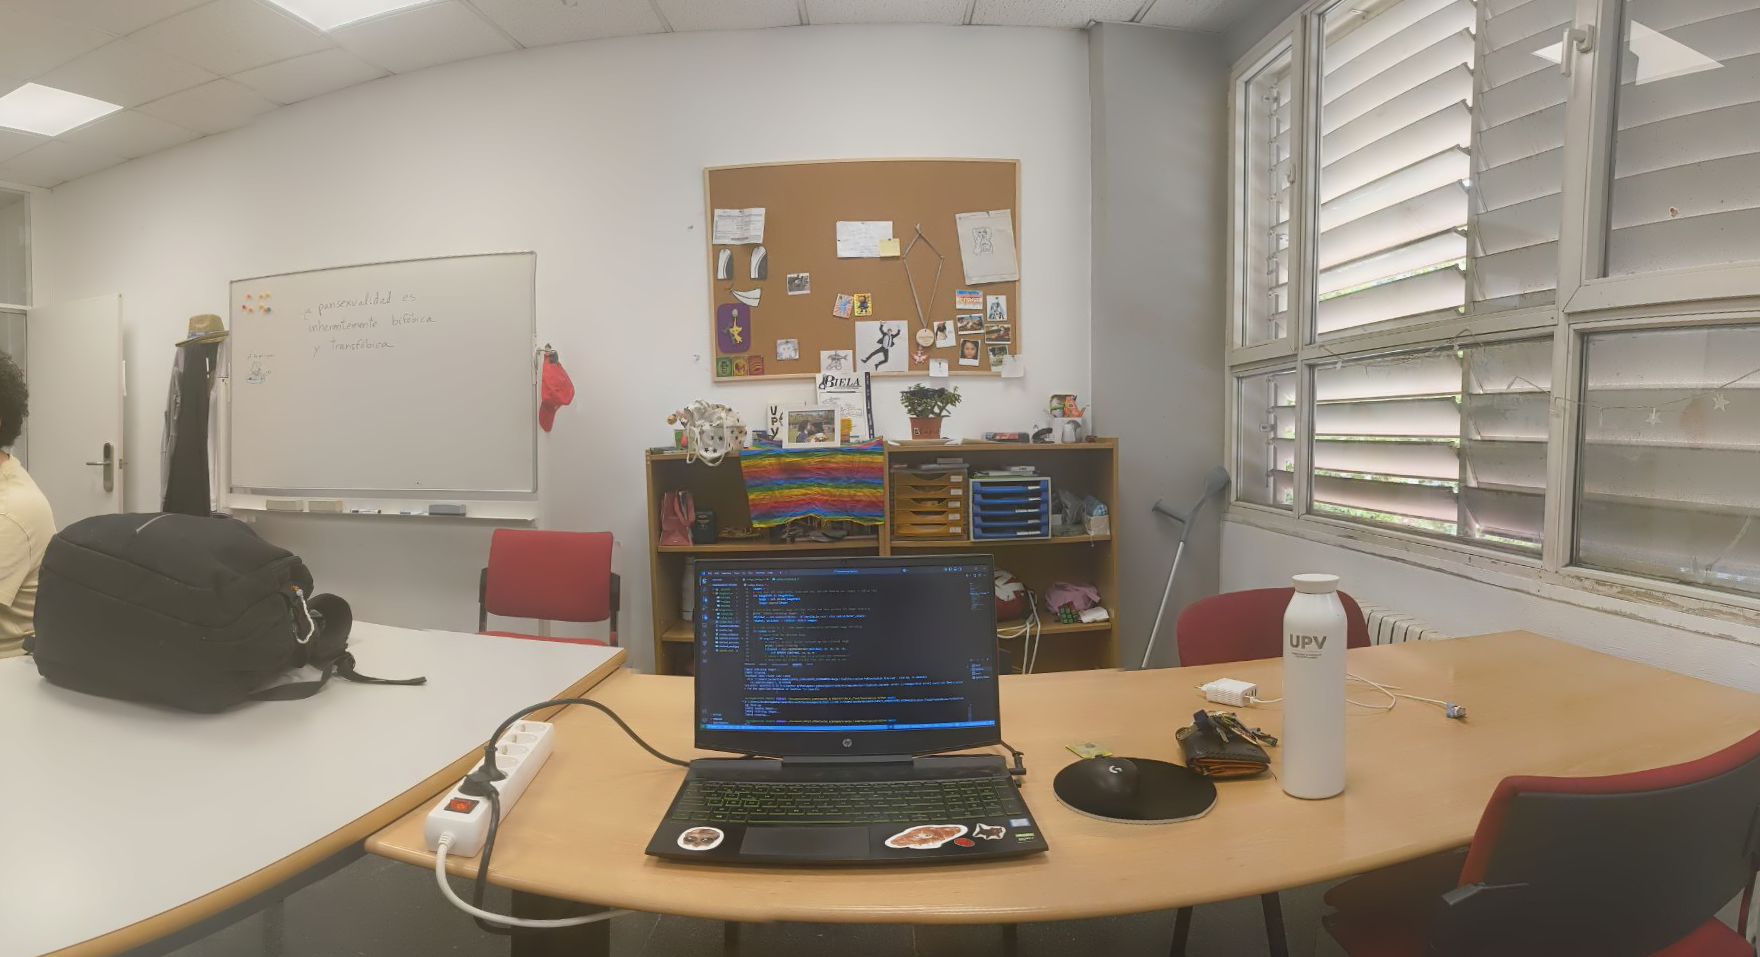
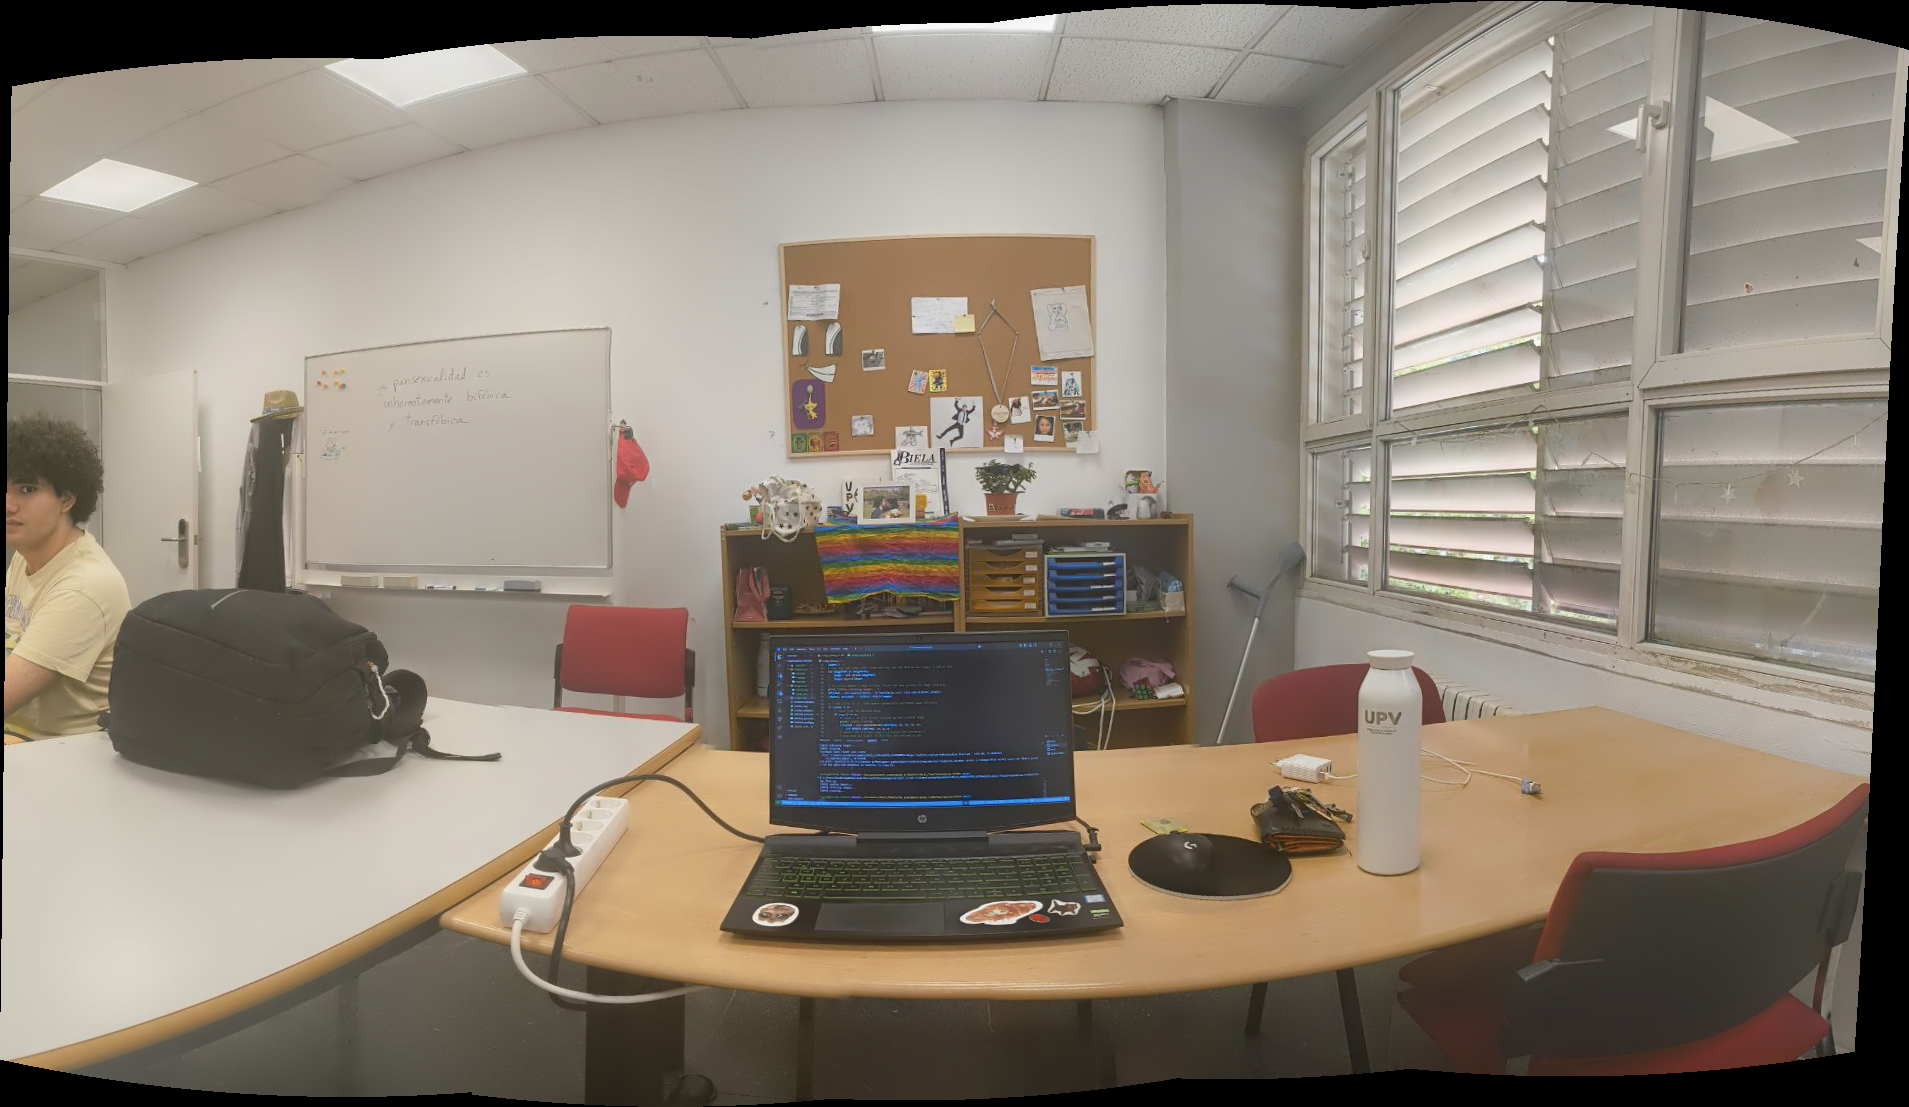
Ahora si

diff --git a/panoramicas_con_python.py b/panoramicas_con_python.py
@@ -19,7 +19,7 @@ import cv2
 # · RUTA DE LAS IMÁGENES QUE QUIERES USAR[ORDENADAS EN LA CARPETA],
 # · RUTA DE SALIDA + NOMBRE DE LA IMAGEN,
 # · SI QUIERES QUE SE RECORTE O NO
-args = ["imagenes_entrada/dele/", "imagenes_salida/salida_mal.png", "0"] # ESTO QUE LO HAGA EL USUARIO EN EL MOMENTO
+args = ["imagenes_entrada/balcon/", "imagenes_salida/pano_balcon.png", "0"] # ESTO QUE LO HAGA EL USUARIO EN EL MOMENTO
 
 print("[INFO] loading images...") # PRINTS EN CONSOLA PARA VER QUE VA
 
@@ -41,9 +41,14 @@ if status == 0: # Si sale 0 es que va bien la unión de las imágenes
 	cv2.imwrite(args[1], stitched)
 	cv2.imshow("Panorámica", stitched)
 	cv2.waitKey(0)
-	while args[2] != 0 or 1:
+	while args[2] not in (0, 1):
 		args[2] = input("¿Quieres recortar la panorámica para que no tenga marcas negras raras?(SI/NO):")
-		args[2] = 0 if args[2].lower() == "si" else args[2] = 1 if args[2].lower() == "no" else args[2] = "Respuesta errónea"
+		if args[2].lower() == "si":
+			args[2] = 0 
+		elif args[2].lower() == "no":
+			args[2] = 1
+		else:
+			args[2] = "Respuesta errónea"
 		print(args[2])
 
 	if args[2] == 0: #0 si quieres recortar, 1 si no
